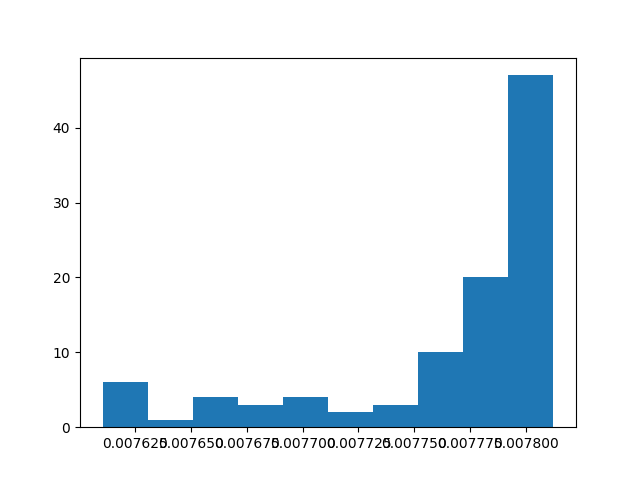
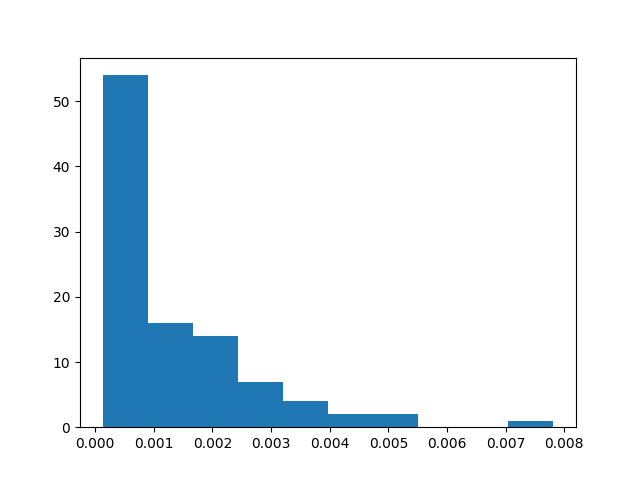
Fixed graphs to compute variance over distances to centroid

diff --git a/main.py b/main.py
@@ -1,6 +1,7 @@
 from utils import *
 import matplotlib.pyplot as plt
-
+from functools import partial
+from multiprocessing import Pool
 
 def generate_data(data_points=1000, dim=512, rotation_count=1, generate_function=get_hypersphere_points):
     # get hyper sphere points
@@ -31,7 +32,7 @@ def get_k_means_variance(data, k):
         return get_where_index(data, clusters, cluster_idx)
 
     # get the variance of each cluster
-    return [np.var(get_cluster(i)) for i in range(k)]
+    return [np.var(compute_distances_from_centroid(get_cluster(i))) for i in range(k)]
 
 
 if __name__ == '__main__':
@@ -43,8 +44,10 @@ if __name__ == '__main__':
     rotation_count = 1
 
     # generate data
-    hypersphere_data = generate_data(data_points, dim, rotation_count, generate_function=get_hypersphere_points)
-    splooch_data = generate_data(data_points, dim, rotation_count, generate_function=get_splooch_points)
+    hypersphere_data = generate_data(data_points, dim, rotation_count,
+        generate_function=get_hypersphere_points)
+    splooch_data = generate_data(data_points, dim, rotation_count,
+        generate_function=partial(get_splooch_points, scale_upper_bound=0.25, splooches=100))
 
     # interpolate between the two datasets
     def linear_interpolate(dataset1, dataset2):
@@ -58,13 +61,18 @@ if __name__ == '__main__':
 
     # interpolate
     interp = linear_interpolate(hypersphere_data, splooch_data)
-    for i in range(10):
-        # get variance
-        variance = get_k_means_variance(interp(float(i)/10.), cluster_count)
+    # multiprocessing
+    pool = Pool(processes=8)
+    # get variance
+    variances = pool.map(partial(get_k_means_variance, k=cluster_count), [interp(i/10) for i in range(10)])
+    pool.close()
 
+
+    
+    for idx, var in enumerate(variances):
         # compute a histogram using matplotlib
-        plt.hist(variance)
+        plt.hist(var)
         plt.show()
-        plt.savefig('graphs/variance_interp_' + str(i) + '.png')
+        plt.savefig('graphs/variance_interp_' + str(idx) + '.png')
         plt.clf()
 

diff --git a/utils.py b/utils.py
@@ -2,7 +2,7 @@
 
 import numpy as np
 import pandas as pd
-from sklearn.cluster import KMeans
+from sklearn.cluster import KMeans, DBSCAN
 from scipy.stats import ortho_group
 import skdim.datasets
 
@@ -15,6 +15,17 @@ def compute_kmeans(data, k):
     """
     kmeans = KMeans(n_clusters=k).fit(data)
     return kmeans
+
+def compute_distances_from_centroid(data):
+    """
+    Computes the distances of each data point from the centroid of the data.
+    :param data: numpy array of shape (n, d)
+    :return: numpy array of shape (n, 1)
+    """
+    # compute centroid
+    centroid = np.mean(data, axis=0)
+    # compute distances
+    return np.linalg.norm(data - centroid, axis=1)
 
 def get_where_index(data, km, label_index):
     """
@@ -39,7 +50,7 @@ def get_normalized_hypercube_points(set_size=1000, dim=512):
     output = output / np.linalg.norm(output, axis=1).reshape(-1, 1)
     return output
 
-def get_splooch_points(set_size=1000, dim=512, splooches=10):
+def get_splooch_points(set_size=1000, dim=512, splooches=10, scale_upper_bound=1.0):
     """
     Generates a set of points that splooch the surface of a hyper sphere
     """
@@ -48,7 +59,7 @@ def get_splooch_points(set_size=1000, dim=512, splooches=10):
     for i in range(splooches):
         splooch = get_hypersphere_points(points_per_splooch, dim)
         random_direction = np.random.uniform(-1, 1, dim)
-        random_scale = np.random.uniform(0, 1)
+        random_scale = np.random.uniform(0, scale_upper_bound)
 
         splooch = splooch * random_scale + random_direction
 
